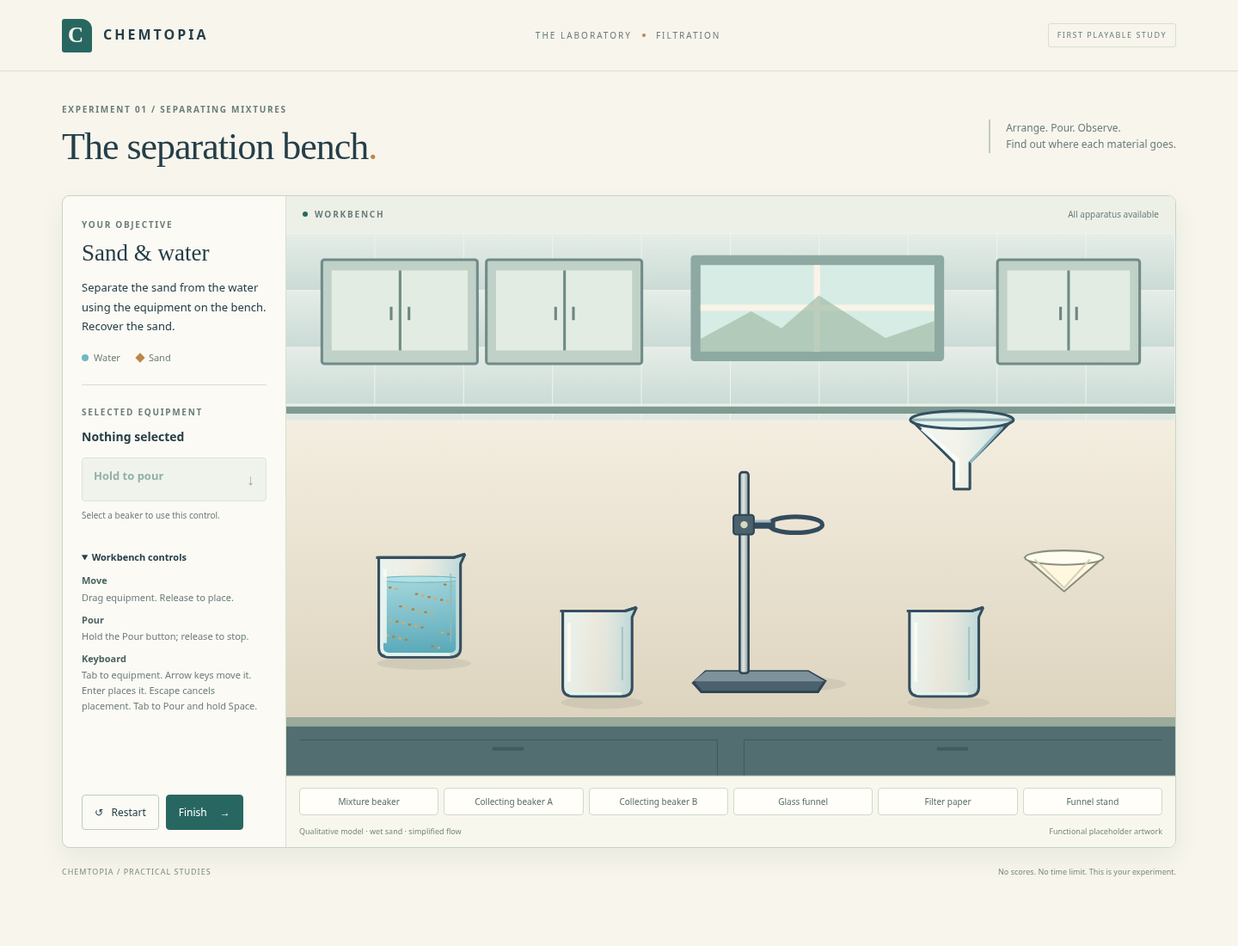
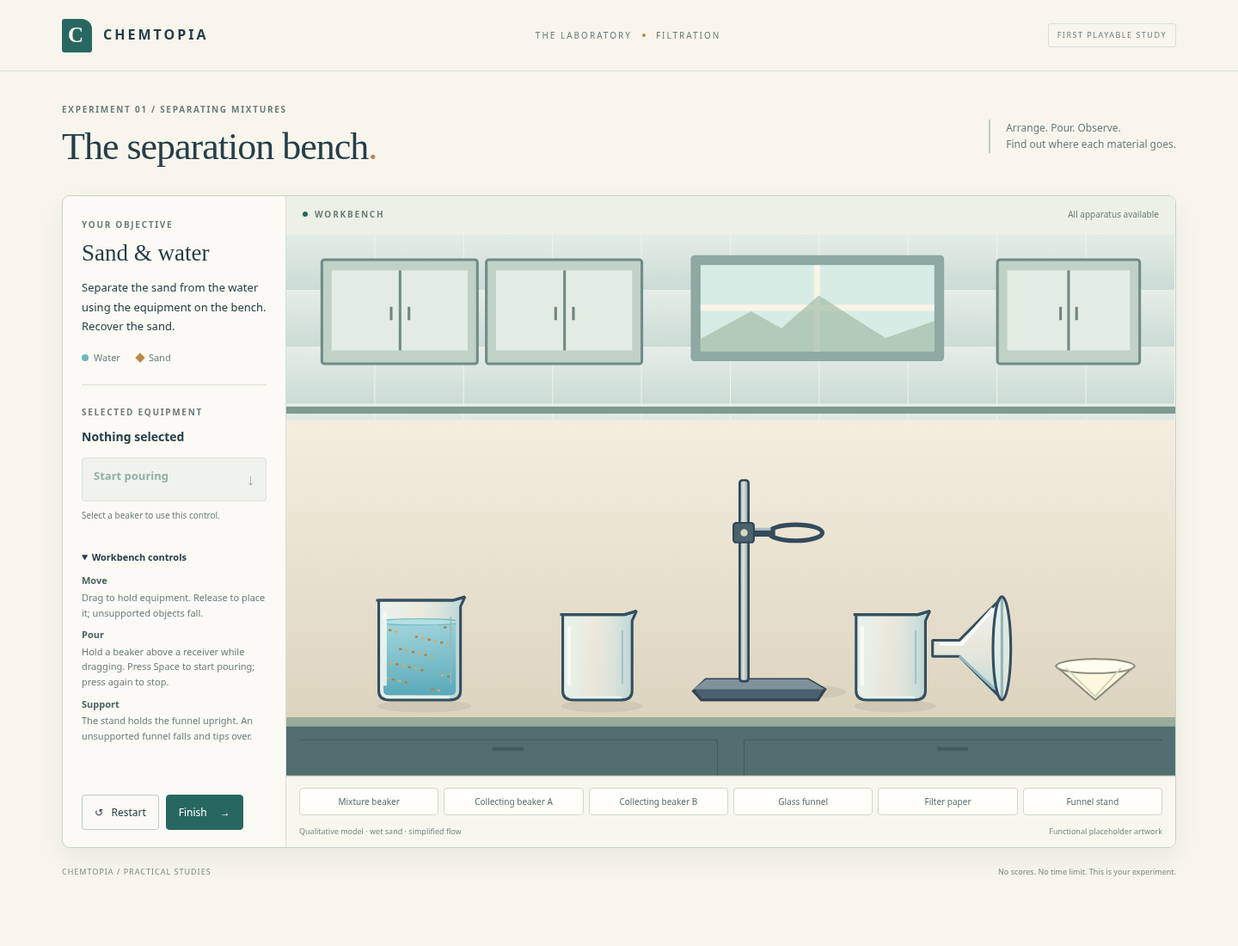
Add bench gravity, funnel tipping and Space action toggle

diff --git a/prototype/app.js b/prototype/app.js
@@ -1,4 +1,4 @@
-import {createState,NAMES,moveItem,detach,placeItem,pour,pourPoint,outcome,EPS} from './model.js';
+import {createState,NAMES,moveItem,detach,placeItem,pour,outcome,stepPhysics,EPS} from './model.js';
 const $=id=>document.getElementById(id);
 const bench=$('bench'),layer=$('apparatus'),spillLayer=$('spills'),streams=$('streams');
 let state=createState(),selected=null,drag=null,placement=null,pouring=false,last=0;
@@ -31,21 +31,23 @@ function art(o){
  ${o.sand>EPS?`<path d="M-22 8Q0 1 22 8L0 29Z" fill="#bb904f"/>${dots(o.sand,.12,34,13,7)}`:''}<rect class="select-outline" x="-55" y="-17" width="110" height="69" rx="7"/>`;
 }
 function render(){
- for(const id of ORDER){const o=state.items[id],g=groups.get(id);g.setAttribute('transform',`translate(${o.x} ${o.y})${pouring&&id===selected?' rotate(35)':''}`);g.innerHTML=art(o);g.classList.toggle('selected',id===selected);g.classList.toggle('lifted',drag?.id===id||placement?.id===id);g.setAttribute('aria-disabled',String(state.phase!=='working'));}
+ for(const id of ORDER){const o=state.items[id],g=groups.get(id);const parent=o.parent?state.items[o.parent]:null;const angle=o.angle||0;g.setAttribute('transform',parent?.angle?`translate(${parent.x} ${parent.y}) rotate(${parent.angle}) translate(${o.x-parent.x} ${o.y-parent.y})`:`translate(${o.x} ${o.y}) rotate(${pouring&&id===selected?35:angle})`);g.innerHTML=art(o);g.classList.toggle('selected',id===selected);g.classList.toggle('lifted',drag?.id===id||placement?.id===id);g.setAttribute('aria-disabled',String(state.phase!=='working'));}
  if(selected)layer.append(groups.get(selected));
  spillLayer.innerHTML=state.spills.map(o=>`<g><ellipse cx="${o.x}" cy="${o.y}" rx="${Math.min(70,12+o.water*100)}" ry="${Math.min(16,4+o.water*28)}" fill="#6caab6" opacity=".65"/>${o.sand>EPS?`<g transform="translate(${o.x} ${o.y-9})">${dots(o.sand,.12,70,12)}</g>`:''}</g>`).join('');
  streams.innerHTML=pouring?state.flow.map(f=>`<path d="M${f.from.x} ${f.from.y}L${f.to.x} ${f.to.y}" stroke="${f.sand?'#8bb9ba':'#70b6c7'}" stroke-width="6" opacity=".85" stroke-linecap="round"/>`).join(''):'';
  $('selected-name').textContent=selected?NAMES[selected]:'Nothing selected';
  $('pour').disabled=state.phase!=='working'||state.items[selected]?.kind!=='beaker';
  $('pour').classList.toggle('active',pouring);
- $('pour-state').textContent=state.items[selected]?.kind==='beaker'?'Hold with the mouse, or focus here and hold Space.':'Select a beaker to use this control.';
+ $('pour').setAttribute('aria-pressed',String(pouring));
+ $('pour').innerHTML=`${pouring?'Stop pouring':'Start pouring'} <span aria-hidden="true">↓</span>`;
+ $('pour-state').textContent=state.items[selected]?.kind==='beaker'?'Press Space to start or stop pouring. Hold the beaker above a receiver while dragging.':'Select a beaker to use this control.';
  for(const b of $('equipment').querySelectorAll('button')){b.setAttribute('aria-pressed',String(b.dataset.equipment===selected));b.disabled=state.phase!=='working';}
  $('finish').disabled=state.phase!=='working';
 }
 function stopPour(){pouring=false;state.flow=[];render();}
 function select(id){if(state.phase!=='working')return;if(placement&&placement.id!==id)finishPlacement();stopPour();selected=id;render();}
 function coords(e){return new DOMPoint(e.clientX,e.clientY).matrixTransform(bench.getScreenCTM().inverse());}
-function clamp(o,x,y){return {x:Math.max(o.kind==='stand'?65:65,Math.min(935,x)),y:Math.max(o.kind==='stand'?260:65,Math.min(o.kind==='stand'?510:o.kind==='beaker'?430:475,y))};}
+function clamp(o,x,y){return {x:Math.max(65,Math.min(935,x)),y:Math.max(o.kind==='stand'?260:65,Math.min(o.kind==='stand'?510:o.kind==='beaker'?430:475,y))};}
 function beginPlacement(id){
  if(placement?.id===id)return;
  if(placement)placeItem(state,placement.id);
@@ -57,27 +59,23 @@ bench.addEventListener('pointerdown',e=>{
  select(id);groups.get(id).focus({preventScroll:true});beginPlacement(id);const p=coords(e),o=state.items[id];drag={id,dx:p.x-o.x,dy:p.y-o.y};bench.setPointerCapture(e.pointerId);e.preventDefault();render();
 });
 bench.addEventListener('pointermove',e=>{if(!drag)return;const p=coords(e),o=state.items[drag.id],pos=clamp(o,p.x-drag.dx,p.y-drag.dy);moveItem(state,o.id,pos.x,pos.y);render();});
-bench.addEventListener('pointerup',()=>{if(drag){drag=null;finishPlacement();}});
+bench.addEventListener('pointerup',()=>{if(drag){stopPour();drag=null;finishPlacement();}});
 bench.addEventListener('pointercancel',()=>{drag=null;finishPlacement();});
 $('equipment').addEventListener('focusin',e=>{const id=e.target.closest('[data-equipment]')?.dataset.equipment;if(id&&id!==selected)select(id);});
 $('equipment').addEventListener('click',e=>{const id=e.target.closest('[data-equipment]')?.dataset.equipment;if(id){finishPlacement();select(id);}});
 for(const [id,g] of groups)g.addEventListener('focus',()=>{if(state.phase==='working'&&selected!==id)select(id);});
+function togglePour(){
+ if(state.phase!=='working'||state.items[selected]?.kind!=='beaker')return;
+ pouring=!pouring;if(!pouring)state.flow=[];render();
+}
 document.addEventListener('keydown',e=>{
- if(e.target===$('pour')&&(e.code==='Space'||e.code==='Enter')){e.preventDefault();if(!$('pour').disabled){pouring=true;render();}return;}
- if(state.phase!=='working')return;
- const isObject=e.target.closest?.('[data-id],[data-equipment]');
- if(e.key==='Escape'&&placement){e.preventDefault();const p=placement;moveItem(state,p.id,p.x,p.y);state.items[p.id].parent=p.parent;placement=null;drag=null;render();return;}
- if(!selected||!isObject)return;
- if(e.key==='Enter'){e.preventDefault();finishPlacement();return;}
- if(['ArrowLeft','ArrowRight','ArrowUp','ArrowDown'].includes(e.key)){
-  e.preventDefault();stopPour();beginPlacement(selected);const o=state.items[selected],step=e.shiftKey?2:8;
-  const pos=clamp(o,o.x+(e.key==='ArrowRight'?step:e.key==='ArrowLeft'?-step:0),o.y+(e.key==='ArrowDown'?step:e.key==='ArrowUp'?-step:0));moveItem(state,selected,pos.x,pos.y);render();
- }
+ if(e.code!=='Space'||state.phase!=='working')return;
+ // Keep native Space behaviour for form answers and other buttons.
+ const control=e.target.closest?.('button,input,select,textarea,[contenteditable="true"]');
+ if(control&&control.id!=='pour'&&!control.dataset.equipment)return;
+ e.preventDefault();if(!e.repeat)togglePour();
 });
-document.addEventListener('keyup',e=>{if(e.code==='Space'||e.code==='Enter')stopPour();});
-$('pour').addEventListener('pointerdown',e=>{if(e.button!==0||$('pour').disabled)return;e.preventDefault();$('pour').focus();finishPlacement();pouring=true;$('pour').setPointerCapture(e.pointerId);render();});
-window.addEventListener('pointerup',()=>{if(pouring)stopPour();});
-window.addEventListener('pointercancel',()=>{if(pouring)stopPour();});
+$('pour').addEventListener('click',togglePour);
 window.addEventListener('blur',()=>{if(pouring)stopPour();});
 document.addEventListener('visibilitychange',()=>{if(document.hidden&&pouring)stopPour();});
 $('restart').addEventListener('click',()=>{pouring=false;drag=null;placement=null;state=createState();selected=null;$('result').hidden=true;$('result').innerHTML='';render();});
@@ -100,5 +98,5 @@ $('finish').addEventListener('click',()=>{
  });
  panel.focus({preventScroll:true});panel.scrollIntoView({behavior:'smooth',block:'nearest'});
 });
-function frame(time){const dt=Math.min(.08,(time-last)/1000);last=time;if(pouring){pour(state,selected,.32*dt);render();}requestAnimationFrame(frame);}
+function frame(time){const dt=Math.min(.05,(time-last)/1000);last=time;const moved=stepPhysics(state,dt,drag?.id),didPour=pouring;if(pouring){pour(state,selected,.32*dt);if(state.items[selected].water+state.items[selected].sand<=EPS){pouring=false;state.flow=[];}}if(moved||didPour)render();requestAnimationFrame(frame);}
 render();requestAnimationFrame(frame);

diff --git a/prototype/model.js b/prototype/model.js
@@ -4,12 +4,12 @@ export const NAMES = {source:'Mixture beaker',receiverA:'Collecting beaker A',re
 export function createState() {
   return {
     items: {
-      source: {id:'source',kind:'beaker',x:150,y:365,water:1,sand:.12,capacity:1.35,parent:null},
-      receiverA: {id:'receiverA',kind:'beaker',x:350,y:425,water:0,sand:0,capacity:.65,parent:null},
-      receiverB: {id:'receiverB',kind:'beaker',x:740,y:425,water:0,sand:0,capacity:.65,parent:null},
-      funnel: {id:'funnel',kind:'funnel',x:760,y:210,parent:null},
-      paper: {id:'paper',kind:'paper',x:875,y:365,sand:0,parent:null},
-      stand: {id:'stand',kind:'stand',x:515,y:500,parent:null}
+      source: {id:'source',kind:'beaker',x:150,y:413,water:1,sand:.12,capacity:1.35,parent:null},
+      receiverA: {id:'receiverA',kind:'beaker',x:350,y:429,water:0,sand:0,capacity:.65,parent:null},
+      receiverB: {id:'receiverB',kind:'beaker',x:680,y:429,water:0,sand:0,capacity:.65,parent:null},
+      funnel: {id:'funnel',kind:'funnel',x:805,y:467,angle:90,parent:null},
+      paper: {id:'paper',kind:'paper',x:910,y:487,sand:0,parent:null},
+      stand: {id:'stand',kind:'stand',x:515,y:509,parent:null}
     },
     spills: [], flow: [], phase:'working', initial:{water:1,sand:.12}
   };
@@ -20,10 +20,10 @@ export function moveItem(state,id,x,y) {
   item.x=x;item.y=y;
   for(const c of children(state,id))moveItem(state,c.id,c.x+dx,c.y+dy);
 }
-export function detach(state,id) {state.items[id].parent=null;}
+export function detach(state,id) {const item=state.items[id];item.parent=null;item.velocity=0;if(item.kind==='funnel')item.angle=0;}
 function attach(state,id,parent,x,y) {moveItem(state,id,x,y);state.items[id].parent=parent;}
 export function placeItem(state,id) {
-  const item=state.items[id]; item.parent=null;
+  const item=state.items[id]; item.parent=null;item.velocity=0;
   if(item.kind==='paper') {
     const f=state.items.funnel;
     if(Math.abs(item.x-f.x)<50&&Math.abs(item.y-f.y)<45)attach(state,id,f.id,f.x,f.y+4);
@@ -31,10 +31,9 @@ export function placeItem(state,id) {
   if(item.kind==='funnel') {
     const s=state.items.stand;
     if(Math.abs(item.x-(s.x+58))<36&&Math.abs(item.y-(s.y-172))<28) {
-      attach(state,id,s.id,s.x+58,s.y-172); return;
+      attach(state,id,s.id,s.x+58,s.y-172);item.angle=0; return;
     }
-    const b=Object.values(state.items).find(o=>o.kind==='beaker'&&Math.abs(item.x-o.x)<35&&Math.abs(item.y-(o.y-62))<28);
-    if(b)attach(state,id,b.id,b.x,b.y-62);
+
   }
 }
 export function pourPoint(item) {return {x:item.x+34.4,y:item.y+24.1};}
@@ -48,7 +47,7 @@ export function receiverBelow(state,point,excluded,sourceId) {
   return Object.values(state.items).filter(o=> {
     if(excluded.has(o.id)||o.id===sourceId||hasAncestor(state,o,sourceId))return false;
     if(o.kind==='beaker')return Math.abs(point.x-o.x)<40&&point.y<=o.y+55;
-    if(o.kind==='funnel')return Math.abs(point.x-o.x)<52&&point.y<=o.y+12;
+    if(o.kind==='funnel'&&o.parent==='stand')return Math.abs(point.x-o.x)<52&&point.y<=o.y+12;
     return false;
   }).sort((a,b)=>Math.max(0,a.y-point.y)-Math.max(0,b.y-point.y))[0]??null;
 }
@@ -100,4 +99,21 @@ export function outcome(state) {
     paperSand:state.items.paper.sand,
     containers:beakers.map(o=>({id:o.id,water:o.water,sand:o.sand}))
   };
+}
+
+// Simple vertical gravity; attached children travel with their support. No impact/breakage model.
+export const BENCH_Y=525;
+export function stepPhysics(state,seconds,heldId=null) {
+  if(state.phase!=='working'||!Number.isFinite(seconds)||seconds<=0)return false;
+  const dt=Math.min(seconds,.05);let changed=false;
+  for(const item of Object.values(state.items)) {
+    if(item.parent||item.id===heldId)continue;
+    const bottom=item.kind==='beaker'?(item.id==='source'?112:96):item.kind==='stand'?16:item.kind==='paper'?38:58;
+    const floor=BENCH_Y-bottom;
+    if(item.kind==='funnel'&&(item.angle||0)<90){item.angle=Math.min(90,(item.angle||0)+240*dt);changed=true;}
+    if(item.y<floor){item.velocity=(item.velocity||0)+1800*dt;moveItem(state,item.id,item.x,Math.min(floor,item.y+item.velocity*dt));changed=true;}
+    else if(item.y>floor){moveItem(state,item.id,item.x,floor);changed=true;}
+    if(item.y>=floor)item.velocity=0;
+  }
+  return changed;
 }

diff --git a/prototype/index.html b/prototype/index.html
@@ -8,8 +8,8 @@
   <div class="workspace">
     <aside class="sidebar">
       <section class="objective"><p class="eyebrow">YOUR OBJECTIVE</p><h2>Sand &amp; water</h2><p>Separate the sand from the water using the equipment on the bench. Recover the sand.</p><div class="sample-key"><span><i class="water-dot"></i>Water</span><span><i class="sand-dot"></i>Sand</span></div></section>
-      <section class="selection"><p class="eyebrow">SELECTED EQUIPMENT</p><h3 id="selected-name" aria-live="polite">Nothing selected</h3><button id="pour" class="pour-button" disabled aria-label="Hold to pour from selected beaker">Hold to pour <span aria-hidden="true">↓</span></button><span id="pour-state" class="control-note">Select a beaker to use this control.</span></section>
-      <details class="controls" open><summary>Workbench controls</summary><dl><dt>Move</dt><dd>Drag equipment. Release to place.</dd><dt>Pour</dt><dd>Hold the Pour button; release to stop.</dd><dt>Keyboard</dt><dd>Tab to equipment. Arrow keys move it. Enter places it. Escape cancels placement. Tab to Pour and hold Space.</dd></dl></details>
+      <section class="selection"><p class="eyebrow">SELECTED EQUIPMENT</p><h3 id="selected-name" aria-live="polite">Nothing selected</h3><button id="pour" class="pour-button" disabled aria-label="Toggle pouring from selected beaker" aria-pressed="false">Start pouring <span aria-hidden="true">↓</span></button><span id="pour-state" class="control-note">Select a beaker to use this control.</span></section>
+      <details class="controls" open><summary>Workbench controls</summary><dl><dt>Move</dt><dd>Drag to hold equipment. Release to place it; unsupported objects fall.</dd><dt>Pour</dt><dd>Hold a beaker above a receiver while dragging. Press Space to start pouring; press again to stop.</dd><dt>Support</dt><dd>The stand holds the funnel upright. An unsupported funnel falls and tips over.</dd></dl></details>
       <div class="attempt-actions"><button id="restart" class="secondary">↺ &nbsp; Restart</button><button id="finish" class="primary">Finish <span>→</span></button></div>
     </aside>
     <section class="bench-panel" aria-label="Interactive filtration workbench">

diff --git a/docs/design/filtration-prototype-review.md b/docs/design/filtration-prototype-review.md
@@ -10,19 +10,21 @@ This image is a screenshot of the implemented interface, captured in Chromium at
 
 With Node.js 22 or newer, run `npm start` from the repository root, then open `http://127.0.0.1:4173` on the same machine. No dependency installation is needed. See [controls and limitations](../../prototype/README.md).
 
-Position apparatus by dragging or keyboard movement, align receiving openings, then hold Pour while a beaker is selected. All six apparatus items are available immediately. Finish stops the attempt and reviews material distribution; a successful separation opens the approved explanation question. Restart creates a fresh attempt.
+Hold a beaker above a receiving opening by dragging, then press Space to start or stop pouring. Released unsupported objects fall to the bench, and funnels tip unless placed in the stand. Arrow-key movement is removed for now. All six apparatus items are available immediately. Finish stops the attempt and reviews material distribution; a successful separation opens the approved explanation question. Restart creates a fresh attempt.
 
 ## Verification
 
-- `npm test`: all 12 model checks passed. They cover correct filtration, absent paper, missed receivers, direct transfers, overflow, interrupted pouring, loaded paper removal, attached equipment movement, conservation across repeated transfers, reset and finished-state protection.
-- `npm run test:browser`: passed in real headless Chromium using mouse and keyboard input. Tested a successful two-receiver mouse experiment, question retry and completion, restart, missing-paper/overflow failure, and a complete keyboard experiment including the question.
+- `npm test`: all 14 model checks passed. They cover correct filtration, absent paper, missed receivers, direct transfers, overflow, interrupted pouring, loaded paper removal, attached equipment movement, conservation across repeated transfers, reset, finished-state protection, gravity and unsupported funnel tipping.
+- `npm run test:browser`: passed in real headless Chromium using mouse and keyboard input. Tested a successful two-receiver mouse-held experiment with Space toggling, key-repeat protection, release safety, question retry/completion, native keyboard answers, restart, missing-paper/overflow failure, falling objects and tipped funnels. Verified that arrow/Enter keys no longer move/place equipment.
 - No browser runtime exceptions occurred in these flows. Initial and completed screenshots were visually reviewed.
 - The static server exposes only the prototype directory; private curriculum documents remain ignored and untracked.
 
 ## Limits and next review
 
-The approved first increment uses a qualitative sand/water model, simplified pouring/filtration and finite attachment/alignment tolerances. Retained sand is wet. There is no settling/decantation simulation or calibrated measurement. The artwork is explicitly labelled as functional placeholder artwork.
+The approved first increment uses a qualitative sand/water model, simplified pouring/filtration and finite attachment/alignment tolerances. Gravity and tipping are simple positional dynamics without impact damage; attached paper preserves its represented sand. Retained sand is wet. There is no settling/decantation simulation or calibrated measurement. The artwork is explicitly labelled as functional placeholder artwork.
 
 Desktop Chromium is verified; other browsers and touch devices are not yet verified. There are no avatars, room navigation, further techniques, currency, saving, accounts, analytics or public deployment in this increment.
 
 The owner should now assess placement tolerances, pouring control and visual clarity by playing. Additional mechanics, techniques or art changes need a further approved step.
+
+The owner's subsequent Node.js/VS Code request is supported by [the development guide](../development.md) and a VS Code run task. The existing dependency-free Node server is retained; HTML, CSS and browser JavaScript remain directly editable without a build step.

diff --git a/prototype/README.md b/prototype/README.md
@@ -14,12 +14,15 @@ The development server reports port 4173. Open that port in a desktop browser on
 
 No dependency installation is needed. The application is static and uses local HTML, CSS, JavaScript and SVG. It has no accounts, analytics, remote requests, database or saved progress. The Node server is only a local static development server, not an application backend.
 
+For VS Code terminal instructions and a file guide, see [Run and edit in VS Code](../docs/development.md).
+
 ## Controls
 
-- Drag apparatus; release it to place it. Compatible physical attachments are available without correct-position guides.
-- Select a beaker, put it above a receiving opening or the bench, and hold **Hold to pour**. Release to stop. Use a clear part of an object's outline or body to select it; an inserted paper can be selected separately from its funnel.
-- For keyboard operation, Tab to an apparatus button, use arrows to move it (Shift + arrow for smaller movements), and Enter to place it. Escape cancels the current placement. Tab to the Pour control and hold Space to pour.
-- **Restart** resets the whole task. **Finish** ends practical work and shows the resulting material distribution. A successful result opens the approved explanation question.
+- Drag apparatus to hold and move it. On release, unsupported objects fall to the bench. The stand holds the funnel upright; elsewhere it falls and tips onto its side, including over a beaker opening.
+- Hold a beaker above an opening while dragging, press **Space** once to start pouring, then press it again to stop. Releasing the mouse also stops pouring and lets the beaker fall. Holding Space does not repeatedly toggle the action.
+- The **Start pouring / Stop pouring** button also toggles pouring for the selected beaker. Arrow-key movement, Enter placement and Escape cancellation are removed for now at the owner's request. Normal keyboard use of buttons and answer choices remains available.
+- Changing selection, finishing, restarting, losing focus or hiding the page stops pouring. An empty beaker stops automatically.
+- **Restart** resets the whole task. **Finish** ends practical work and shows material distribution. A successful result opens the approved explanation question.
 
 There are no currency rewards, room navigation, avatar selection or additional separation activities in this increment.
 
@@ -29,7 +32,7 @@ The prototype uses explicitly labelled **functional placeholder artwork**, with 
 
 Amounts are internal qualitative state, not calibrated readings. Sand stays represented as insoluble particles; filter paper retains it while water passes through. Pour flow is simplified, including the homogeneous transfer of the represented batch during a pour; settling and decantation are not simulated. Filtration is represented without detailed hydraulic rates or paper moisture retention. Retained sand is described as wet, not dried.
 
-The small supported action set covers beakers, funnel, paper, stand, pouring, removal/movement, spills, overflow and reset. It is not a general-purpose physics engine: arbitrary collisions, glass breakage, heaters and other chemical processes are outside this approved increment. Physical alignment and receiving openings use finite geometric tolerances; these may need refinement after the owner's playtest.
+The small supported action set covers beakers, funnel, paper, stand, pouring, removal/movement, spills, overflow and reset. Gravity and funnel tipping are simple visual/positional dynamics; attached paper keeps its represented sand. It is not a general-purpose physics engine: arbitrary collisions, impact damage, glass breakage, heaters and other chemical processes are outside this approved increment. Physical alignment and receiving openings use finite geometric tolerances; these may need refinement after the owner's playtest.
 
 ## Verification
 

diff --git a/docs/development.md b/docs/development.md
@@ -1,0 +1,57 @@
+# Run and edit in VS Code
+
+Install Node.js 22 or newer and Git if they are not already available. Node.js runs the small local development server. The browser runs the game; no JavaScript framework or package installation is needed.
+
+## Open your copy
+
+In VS Code choose **File → Open Folder** and select your `chemtopia` repository folder. Choose **Terminal → New Terminal**. This is a regular terminal, not the interactive Node.js `>` prompt. If you opened that prompt separately, `.exit` leaves it.
+
+In the VS Code terminal, update your copy and start the game:
+
+```bash
+git pull
+npm start
+```
+
+Open **http://127.0.0.1:4173** in your browser. Keep the terminal running. After editing a file, save it and refresh the browser. Press **Ctrl+C** in the terminal to stop the server. To restart, run `npm start` again.
+
+Alternatively, run the same server directly:
+
+```bash
+node scripts/serve.mjs
+```
+
+VS Code also has **Terminal → Run Task → Chemtopia: run prototype**, which runs that Node command from the correct folder.
+
+If you have not cloned the project, use a terminal in a parent folder first:
+
+```bash
+git clone https://github.com/alhobj/chemtopia.git
+cd chemtopia
+code .
+```
+
+If the `code` command is unavailable, open the folder through VS Code's File menu instead.
+
+## Where to edit
+
+| File | Purpose |
+| --- | --- |
+| `prototype/index.html` | Page structure, labels and laboratory background |
+| `prototype/style.css` | Colours, typography and layout |
+| `prototype/app.js` | Mouse and Space controls, drawing apparatus, results |
+| `prototype/model.js` | Material transfers, attachments, gravity and funnel tipping |
+| `scripts/serve.mjs` | Node.js static file server |
+| `tests/model.test.mjs` | Chemistry/material and movement checks |
+
+HTML and CSS work as usual. JavaScript is needed for the browser's interactive behaviour; Node.js is the program running the local server, rather than a separate game engine. There is no Python runtime requirement. No build step is required.
+
+## Check changes
+
+```bash
+npm test
+```
+
+This runs with Node alone. The optional `npm run test:browser` needs a Chromium executable; see [the prototype guide](../prototype/README.md). It is not required just to play or edit the game.
+
+The server is local, with no accounts, analytics or saved student data. It only serves the `prototype/` folder.

diff --git a/docs/design/decisions.md b/docs/design/decisions.md
@@ -97,3 +97,11 @@ The owner selected one complete filtration task first, direct close-up workbench
 On 21 October 2026, the owner replied “Yes” to the concrete filtration prototype specification. This approves its additional qualitative-model boundaries, six apparatus items, recovery criterion, drafted explanation question and static local first increment. This supersedes the pending approval statements in the earlier P01–P09 entry for this increment only.
 
 The implementation uses dependency-free HTML/CSS/JavaScript/SVG, with explicitly labelled functional placeholder artwork. Mouse and keyboard share one material model. The owner should playtest this increment before further features. See [the review](filtration-prototype-review.md); public deployment, student data collection and additional techniques remain outside this approval.
+
+## Playtest revision — gravity and Space action toggle
+
+The owner liked the prototype and requested four concrete changes: unsupported objects fall to the bench, funnels tip unless placed in the stand, keyboard movement is removed for now, and pressing Space starts/stops the current action. This supersedes the first build's suspended placements, vessel-supported funnel and full keyboard movement/hold-Space mapping. The owner reported that keyboard movement did not work in their setup; it is removed rather than claimed fixed.
+
+The revised interaction keeps the mouse held while positioning a pouring beaker; Space toggles flow without needing to hold the key. Releasing the object stops pouring and starts its fall. The visible action button also toggles flow. Selection changes, focus loss, Finish and Restart stop the action. Gravity and tipping use a small qualitative positional model, with no impact damage or new material loss from tipping. Attached paper keeps its retained sand; a tipped unsupported funnel does not act as an upright receiving opening.
+
+The owner also requested Node.js use, convenient terminal execution in VS Code, and a Git push. The existing Node.js local server is retained, with a VS Code run task and a beginner-oriented development guide. Knowing Python/HTML/CSS is recorded as context, not interpreted as a request to rewrite the game or add a Python backend.

diff --git a/docs/design/filtration-prototype-spec.md b/docs/design/filtration-prototype-spec.md
@@ -2,6 +2,12 @@
 
 **Status: approved by the owner’s “Yes” on 21 October 2026.** Approval includes the additional implementation boundaries and drafted completion question below. This specification translates P01–P09 into the first implemented increment; see [the review](filtration-prototype-review.md). The P IDs in this questionnaire are contextual question IDs, not the existing P01–P14 art-sheet IDs.
 
+## Current owner-requested revision
+
+After playtesting, the owner requested gravity for released unsupported objects, funnel tipping unless supported in the stand, removal of keyboard movement for now, and Space as an action toggle. These requests supersede the original free-air placement, beaker-supported funnel, arrow/Enter/Escape movement and hold-to-pour requirements recorded below. Hold a beaker above a receiver with the mouse; press Space to start and again to stop. Releasing the beaker stops pouring and lets it fall. The action button also toggles flow. See [current controls](../../prototype/README.md) and [the decision record](decisions.md).
+
+The remaining text preserves the originally approved first-build specification and questionnaire history; superseded controls are not current requirements.
+
 ## Recorded answers
 
 ```text

diff --git a/AGENTS.md b/AGENTS.md
@@ -41,3 +41,7 @@ For the first separation activity, follow docs/design/separation-activity.md: al
 ## Approved first implementation
 
 The owner approved docs/design/filtration-prototype-spec.md with “Yes”. Its sand-and-water filtration workbench, qualitative chemistry, completion question and mouse/keyboard controls are authorised. The static dependency-free prototype is in prototype/; run/check instructions are in prototype/README.md. This supersedes the earlier implementation gate only for this bounded increment. Review the implemented result before starting additional techniques or features. Existing commit/push authorisation applies; public deployment remains unapproved.
+
+## Owner's interaction revision
+
+After playing the prototype, the owner requested that released unsupported equipment fall to the bench, funnels tip unless supported by the stand, keyboard movement be removed for now, and Space toggle the current action (pouring). These explicit requests supersede the original keyboard-equivalence, hold-to-pour and free-air-placement requirements for this prototype. Preserve native keyboard operation of ordinary controls. This is an authorised revision, not an unanswered design question.

diff --git a/README.md b/README.md
@@ -6,9 +6,11 @@ The first playable increment is a local sand-and-water filtration workbench. Eng
 
 ## Try the prototype
 
-With Node.js 22 or newer, run `npm start` from this repository and open `http://127.0.0.1:4173` on the same machine. No dependency installation is needed. Drag equipment, align receiving openings, and hold Pour to transfer material. Keyboard controls and limitations are in [the prototype guide](prototype/README.md).
+With Node.js 22 or newer, run `npm start` from this repository and open `http://127.0.0.1:4173` on the same machine. No dependency installation is needed. Hold a beaker above a receiver while dragging, and press Space to start or stop pouring. Unsupported equipment falls; the stand holds the funnel upright. Controls and limitations are in [the prototype guide](prototype/README.md).
 
 Run `npm test` for the material-model checks and `npm run test:browser` for Chromium mouse/keyboard checks. See [the prototype review](docs/design/filtration-prototype-review.md).
+
+For step-by-step terminal instructions and a file guide, see [Run and edit in VS Code](docs/development.md).
 
 ## Start here
 

diff --git a/docs/design/next-step.md b/docs/design/next-step.md
@@ -2,7 +2,7 @@
 
 ## Current step — implemented, awaiting playtest
 
-The owner approved the [filtration specification](filtration-prototype-spec.md) with “Yes”. A standalone local workbench now implements that bounded first increment, including mouse/keyboard operation, physically compatible attachments, material transfer, wrong actions, restart, Finish and the approved explanation question.
+The owner approved the [filtration specification](filtration-prototype-spec.md) with “Yes”. A standalone local workbench now implements that bounded first increment, including mouse-held placement and Space action toggling, gravity, funnel tipping, physically compatible attachments, material transfer, wrong actions, restart, Finish and the approved explanation question.
 
 See [the review and verification](filtration-prototype-review.md) and [launch instructions](../../prototype/README.md). Review this playable increment before choosing the next development step. Additional separation techniques, production art, room navigation, avatars, currency, persistence and publication are outside this increment.
 
